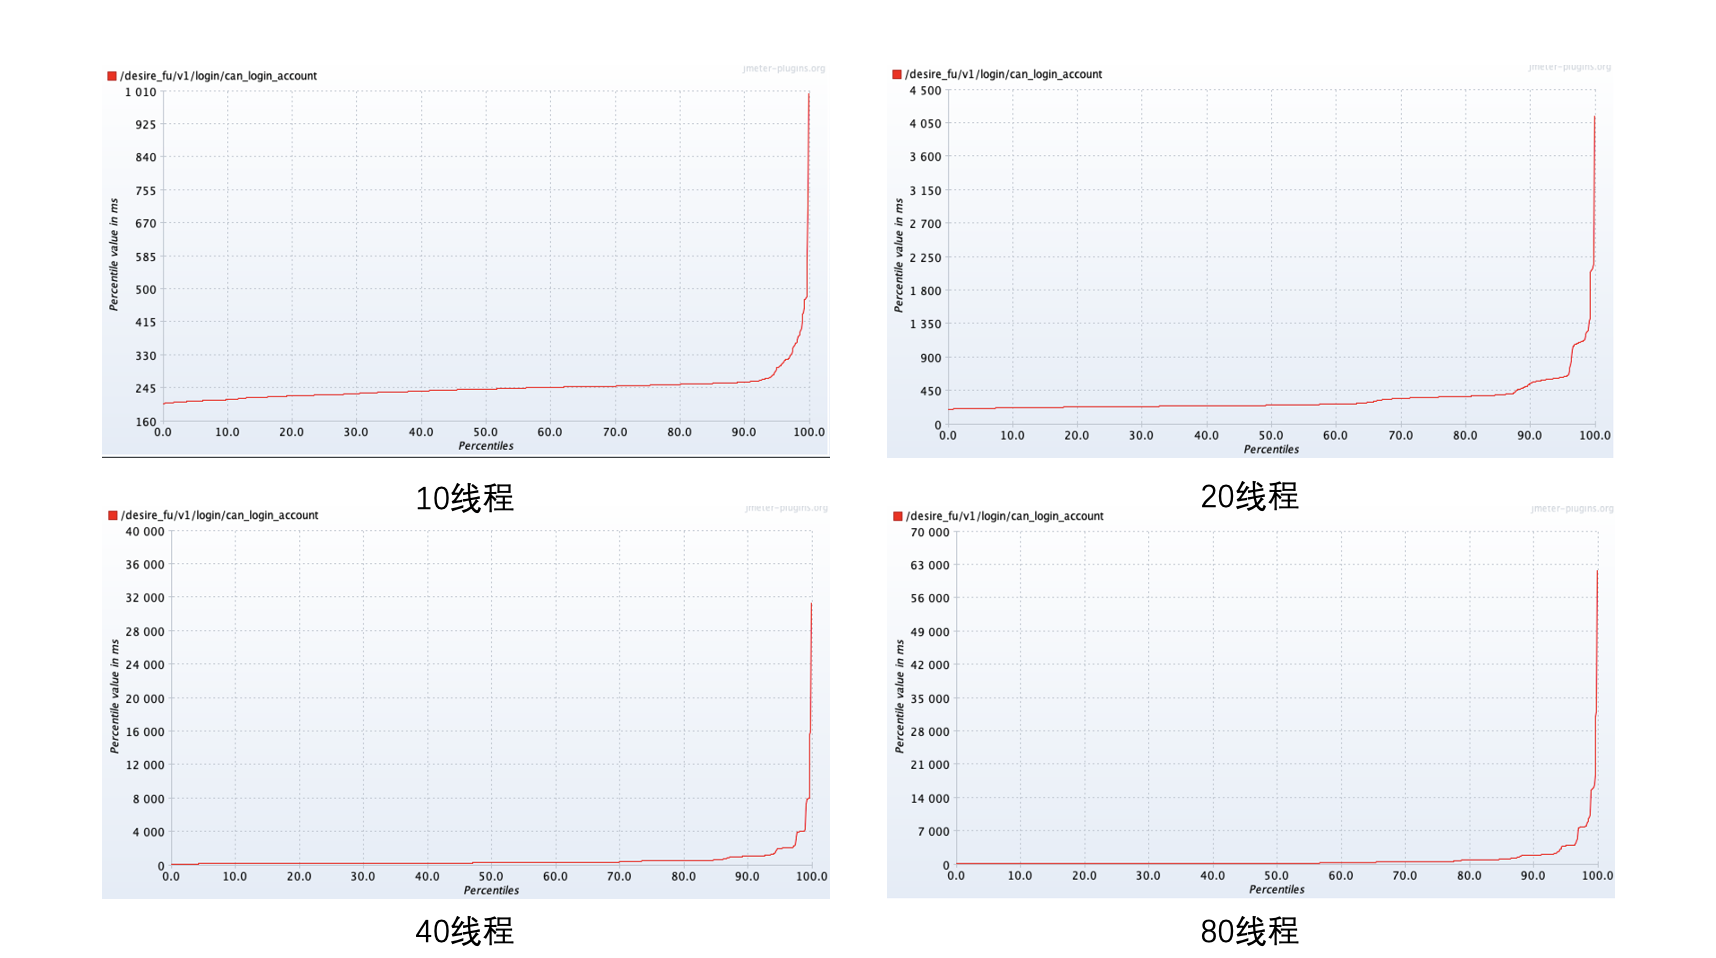
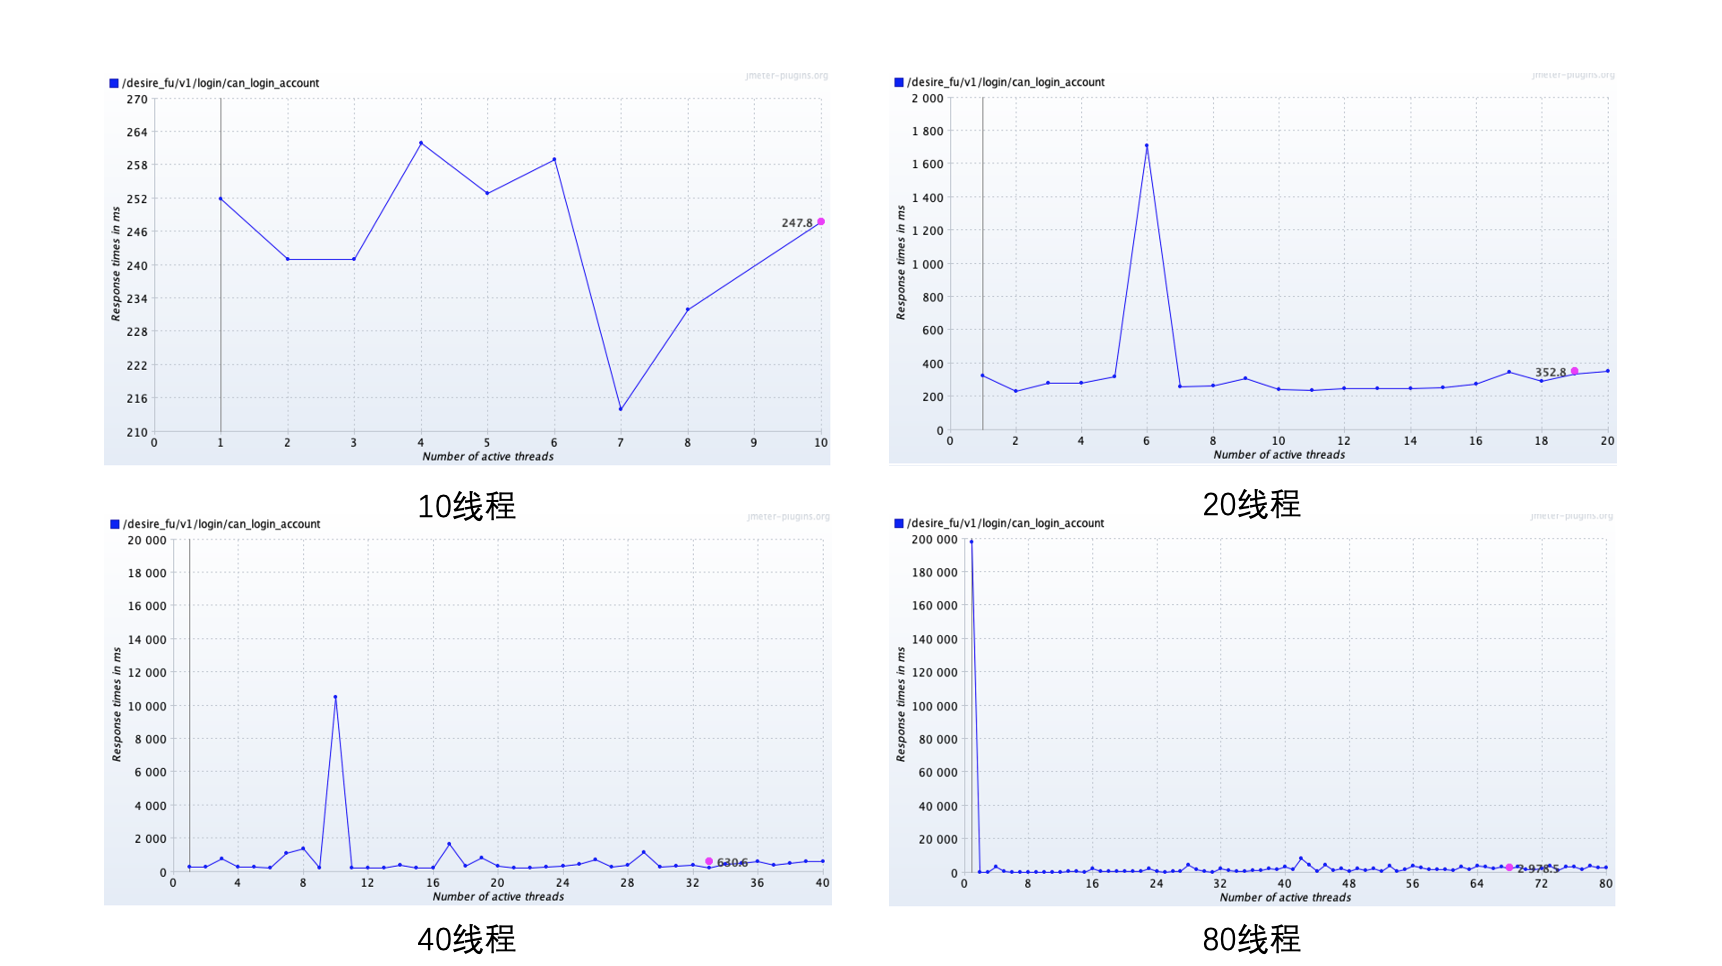
GitBook: [master] 3 pages and 23 assets modified

diff --git a/you-hua/fu-wu-ya-ce/desire_fu-v1-login-can_login_account.md b/you-hua/fu-wu-ya-ce/desire_fu-v1-login-can_login_account.md
@@ -9,25 +9,27 @@
 | 40 | 5000 | 653 | 0.00% |
 | 80 | 8000 | 1462 | 0.98% |
 
-可以看到在80的时候出现了异常请求，其实正常压测到60的时候已经少量的异常请求了。这应该已经达到了服务可以处理的极限了，因为我们只有三个2核4G的机器，并且nginx的机器是很低端的机器，60qps已经是一个不错的成绩了，后面会考虑优化。
+可以看到在80的时候出现了异常请求，其实正常压测到60的时候已经少量的异常请求了。这应该已经达到了服务可以处理的极限了，因为我们只有三个2核4G的机器，并且nginx的机器是很低端的机器，后面会考虑优化。
 
-![&#x8BF7;&#x6C42;&#x7684;&#x54CD;&#x5E94;&#x65F6;&#x95F4;&#x53D8;&#x5316;&#x8D8B;&#x52BF;&#x56FE;](../../.gitbook/assets/image%20%2886%29.png)
+接口QPS：45左右
 
-![&#x6210;&#x529F;&#x7684;&#x8BF7;&#x6C42;&#x7684;&#x54CD;&#x5E94;&#x65F6;&#x95F4;&#x767E;&#x5206;&#x6BD4;&#x5206;&#x5E03;&#x56FE;](../../.gitbook/assets/image%20%2874%29.png)
+![&#x8BF7;&#x6C42;&#x7684;&#x54CD;&#x5E94;&#x65F6;&#x95F4;&#x53D8;&#x5316;&#x8D8B;&#x52BF;&#x56FE;](../../.gitbook/assets/image%20%2888%29.png)
 
-![&#x811A;&#x672C;&#x8FD0;&#x884C;&#x671F;&#x95F4;&#xFF0C;&#x541E;&#x5410;&#x7387;&#x53D8;&#x5316;&#x8D8B;&#x52BF;&#x56FE;](../../.gitbook/assets/image%20%2877%29.png)
+![&#x6210;&#x529F;&#x7684;&#x8BF7;&#x6C42;&#x7684;&#x54CD;&#x5E94;&#x65F6;&#x95F4;&#x767E;&#x5206;&#x6BD4;&#x5206;&#x5E03;&#x56FE;](../../.gitbook/assets/image%20%2875%29.png)
 
-![&#x811A;&#x672C;&#x8FD0;&#x884C;&#x671F;&#x95F4;&#xFF0C;&#x53D1;&#x9001;&#x4E00;&#x4E2A;&#x5B8C;&#x6574;&#x7684;&#x8BF7;&#x6C42;&#x6240;&#x9700;&#x65F6;&#x95F4;&#x7684;&#x53D8;&#x5316;&#x8D8B;&#x52BF;&#x56FE;](../../.gitbook/assets/image%20%2883%29.png)
+![&#x811A;&#x672C;&#x8FD0;&#x884C;&#x671F;&#x95F4;&#xFF0C;&#x541E;&#x5410;&#x7387;&#x53D8;&#x5316;&#x8D8B;&#x52BF;&#x56FE;](../../.gitbook/assets/image%20%2878%29.png)
 
-![&#x811A;&#x672C;&#x8FD0;&#x884C;&#x671F;&#x95F4;&#xFF0C;&#x4E8B;&#x52A1;&#xFF08;&#x8BF7;&#x6C42;&#xFF09;&#x5EFA;&#x7ACB;&#x8FDE;&#x63A5;&#x6240;&#x82B1;&#x8D39;&#x7684;&#x5E73;&#x5747;&#x65F6;&#x95F4;&#x53D8;&#x5316;&#x8D8B;&#x52BF;&#x56FE;](../../.gitbook/assets/image%20%2887%29.png)
+![&#x811A;&#x672C;&#x8FD0;&#x884C;&#x671F;&#x95F4;&#xFF0C;&#x53D1;&#x9001;&#x4E00;&#x4E2A;&#x5B8C;&#x6574;&#x7684;&#x8BF7;&#x6C42;&#x6240;&#x9700;&#x65F6;&#x95F4;&#x7684;&#x53D8;&#x5316;&#x8D8B;&#x52BF;&#x56FE;](../../.gitbook/assets/image%20%2885%29.png)
 
-![&#x811A;&#x672C;&#x8FD0;&#x884C;&#x671F;&#x95F4;&#xFF0C;&#x54CD;&#x5E94;&#x72B6;&#x6001;&#x7801;&#x7684;&#x6570;&#x91CF;&#x53D8;&#x5316;&#x8D8B;&#x52BF;&#x56FE;](../../.gitbook/assets/image%20%2870%29.png)
+![&#x811A;&#x672C;&#x8FD0;&#x884C;&#x671F;&#x95F4;&#xFF0C;&#x4E8B;&#x52A1;&#xFF08;&#x8BF7;&#x6C42;&#xFF09;&#x5EFA;&#x7ACB;&#x8FDE;&#x63A5;&#x6240;&#x82B1;&#x8D39;&#x7684;&#x5E73;&#x5747;&#x65F6;&#x95F4;&#x53D8;&#x5316;&#x8D8B;&#x52BF;&#x56FE;](../../.gitbook/assets/image%20%2889%29.png)
 
-![&#x6BCF;&#x79D2;&#x4E8B;&#x52A1;&#x6570;&#xFF0C;&#x5373; TPS](../../.gitbook/assets/image%20%2868%29.png)
+![&#x811A;&#x672C;&#x8FD0;&#x884C;&#x671F;&#x95F4;&#xFF0C;&#x54CD;&#x5E94;&#x72B6;&#x6001;&#x7801;&#x7684;&#x6570;&#x91CF;&#x53D8;&#x5316;&#x8D8B;&#x52BF;&#x56FE;](../../.gitbook/assets/image%20%2871%29.png)
 
-![&#x5E73;&#x5747;&#x54CD;&#x5E94;&#x65F6;&#x95F4;&#x548C;&#x7EBF;&#x7A0B;&#x6570;&#x7684;&#x5BF9;&#x5E94;&#x53D8;&#x5316;&#x66F2;&#x7EBF;](../../.gitbook/assets/image%20%2873%29.png)
+![&#x6BCF;&#x79D2;&#x4E8B;&#x52A1;&#x6570;&#xFF0C;&#x5373; TPS](../../.gitbook/assets/image%20%2869%29.png)
 
-![&#x54CD;&#x5E94;&#x65F6;&#x95F4;&#x5206;&#x5E03;&#x56FE;](../../.gitbook/assets/image%20%2878%29.png)
+![&#x5E73;&#x5747;&#x54CD;&#x5E94;&#x65F6;&#x95F4;&#x548C;&#x7EBF;&#x7A0B;&#x6570;&#x7684;&#x5BF9;&#x5E94;&#x53D8;&#x5316;&#x66F2;&#x7EBF;](../../.gitbook/assets/image%20%2874%29.png)
+
+![&#x54CD;&#x5E94;&#x65F6;&#x95F4;&#x5206;&#x5E03;&#x56FE;](../../.gitbook/assets/image%20%2879%29.png)
 
 
 

diff --git a/you-hua/ya-ce-jian-jie/jmeter.md b/you-hua/ya-ce-jian-jie/jmeter.md
@@ -31,14 +31,14 @@
 * **重点：**可以根据响应时间和变化和TPS以及模拟的并发数变化，判断性能拐点的范围
 * 一条线代表一个事务（请求）
 
-![](../../.gitbook/assets/image%20%2881%29.png)
+![](../../.gitbook/assets/image%20%2883%29.png)
 
 #### Response times Percentiles Over Time
 
 * 脚本运行期间，**成功的请求**的响应时间百分比分布图
 * 可理解为聚合报告对应的指标（图二）
 
-![](../../.gitbook/assets/image%20%2884%29.png)
+![](../../.gitbook/assets/image%20%2886%29.png)
 
 #### Bytes throughput Over Time
 
@@ -46,7 +46,7 @@
 * 在容量规划、可用性测试和大文件上传下载场景中，吞吐量是很重要的一个监控和分析指标
 * 会**忽略**事务控制器样本结果
 
-![](../../.gitbook/assets/image%20%2876%29.png)
+![](../../.gitbook/assets/image%20%2877%29.png)
 
 #### Latencies Over Time
 
@@ -54,7 +54,7 @@
 * **可理解理解成：**从发送请求到收到第一个响应所花费的时间
 * **包括**事务控制器样本结果
 
-![](../../.gitbook/assets/image%20%2869%29.png)
+![](../../.gitbook/assets/image%20%2870%29.png)
 
 #### Connect Time Over Time
 
@@ -62,19 +62,13 @@
 * 包括 SSL 三次握手的时间
 * 当出现链 Connection Time Out 的错误时，Connect Time 就会等于链接超时时间
 
-![](../../.gitbook/assets/image%20%2875%29.png)
-
-#### Hits Per Second
-
-每秒点击数
-
-![](../../.gitbook/assets/image%20%2885%29.png)
+![](../../.gitbook/assets/image%20%2876%29.png)
 
 #### Codes Per Second
 
 脚本运行期间，响应状态码的数量变化趋势图
 
-![](../../.gitbook/assets/image%20%2882%29.png)
+![](../../.gitbook/assets/image%20%2884%29.png)
 
 #### Transactions Per Second（最重要）
 
@@ -82,7 +76,7 @@
 * 衡量系统处理能力的重要指标
 * **包括**事务控制器样本结果
 
-![](../../.gitbook/assets/image%20%2872%29.png)
+![](../../.gitbook/assets/image%20%2873%29.png)
 
 #### Time Vs Threads
 
@@ -90,14 +84,14 @@
 * 可以通过这个对应的变化曲线来作为确定性能拐点的一个参考值
 * 可以选中或取消选中下面的 Sampler
 
-![](../../.gitbook/assets/image%20%2871%29.png)
+![](../../.gitbook/assets/image%20%2872%29.png)
 
 #### Response Time Distribution
 
 * 响应时间分布图
 * 不同响应时间区间内，成功响应数是多少
 
-![](../../.gitbook/assets/image%20%2867%29.png)
+![](../../.gitbook/assets/image%20%2868%29.png)
 
 
 

diff --git a/you-hua/fu-wu-ya-ce/desire_fu-v1-normal_account-get.md b/you-hua/fu-wu-ya-ce/desire_fu-v1-normal_account-get.md
@@ -4,10 +4,15 @@
 
 | **线程数量** | **\#Samples** | 平均 | **Error%** |
 | :--- | :--- | :--- | :--- |
-| 10 | 3000 | 247 | 0.00% |
-| 20 | 4000 | 352 | 0.00% |
-| 40 | 5000 | 653 | 0.00% |
-| 80 | 8000 | 1462 | 0.98% |
+| 10 | 4000 | 450 | 0.00% |
+| 20 | 4000 | 690 | 0.00% |
+| 40 | 5000 | 1401 | 0.05% |
 
-可以看到在80的时候出现了异常请求，其实正常压测到60的时候已经少量的异常请求了。这应该已经达到了服务可以处理的极限了，因为我们只有三个2核4G的机器，并且nginx的机器是很低端的机器，60qps已经是一个不错的成绩了，后面会考虑优化。
+可以看到在40的时候就已经出现了异常请求，已经达到了服务可以处理的极限了，前面已经说过，只有三个2核4G的机器，并且nginx的机器是很低端的机器，后面会考虑优化。
+
+接口QPS：**30左右**
+
+![](../../.gitbook/assets/image%20%2867%29.png)
+
+![](../../.gitbook/assets/image%20%2882%29.png)
 
